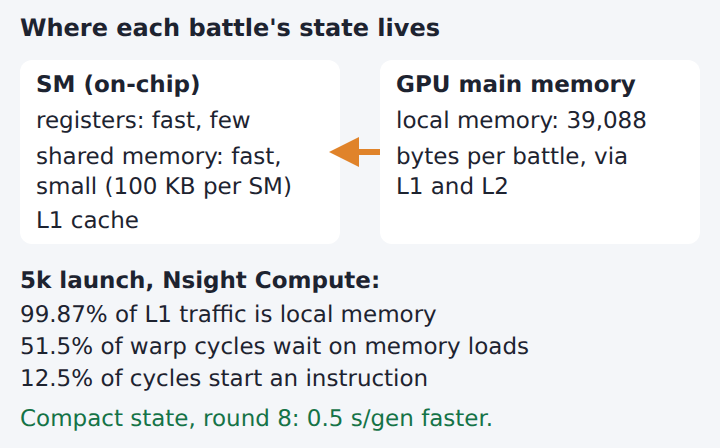
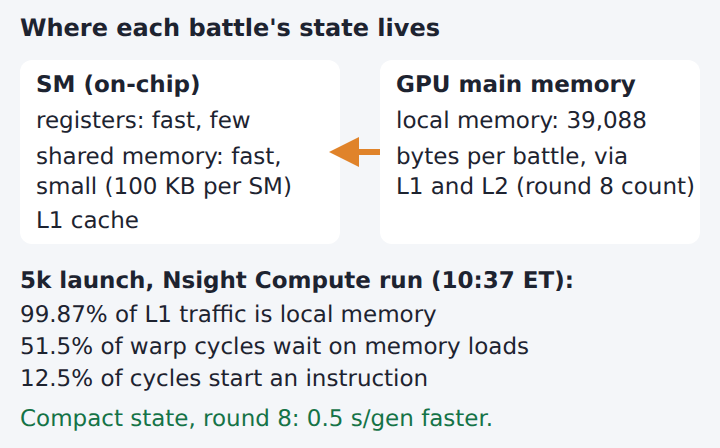
gpu round 9: page fixes from check round 18 (A/B and generation defined up front, explainer memory numbers name their runs)
Claude-Session: https://claude.ai/code/session_01Ws3K6hiVf42Evxx3QjPVsr

Changed region(s): [[0.5194, 0.5938, 0.7944, 0.6562], [0.7028, 0.375, 0.9778, 0.4375]]

diff --git a/docs/gpu-round9-explained.md b/docs/gpu-round9-explained.md
@@ -25,9 +25,9 @@ Each round waits for its longest battle while the other threads sit idle.
 
 ![Battle state lives in GPU main memory and reaches the SM through L1 and L2](gpu-r9-memory.png)
 
-Each battle keeps 39,088 bytes of state in local memory: teams, HP, energy and its lookahead.
+Round 8 counted 39,088 bytes of state per battle in local memory: teams, HP, energy and its lookahead.
 
-Local memory is GPU main memory, behind L1 and L2. Nsight Compute shows half of warp cycles wait on it.
+It sits in GPU main memory, behind L1 and L2. In the 10:37 ET Nsight run (5k launch), half of warp cycles wait on it.
 
 Round 8's compact state packs fields into 8 and 16 bits. It saved 0.5 s per generation in an A/B of 3 runs each.
 
